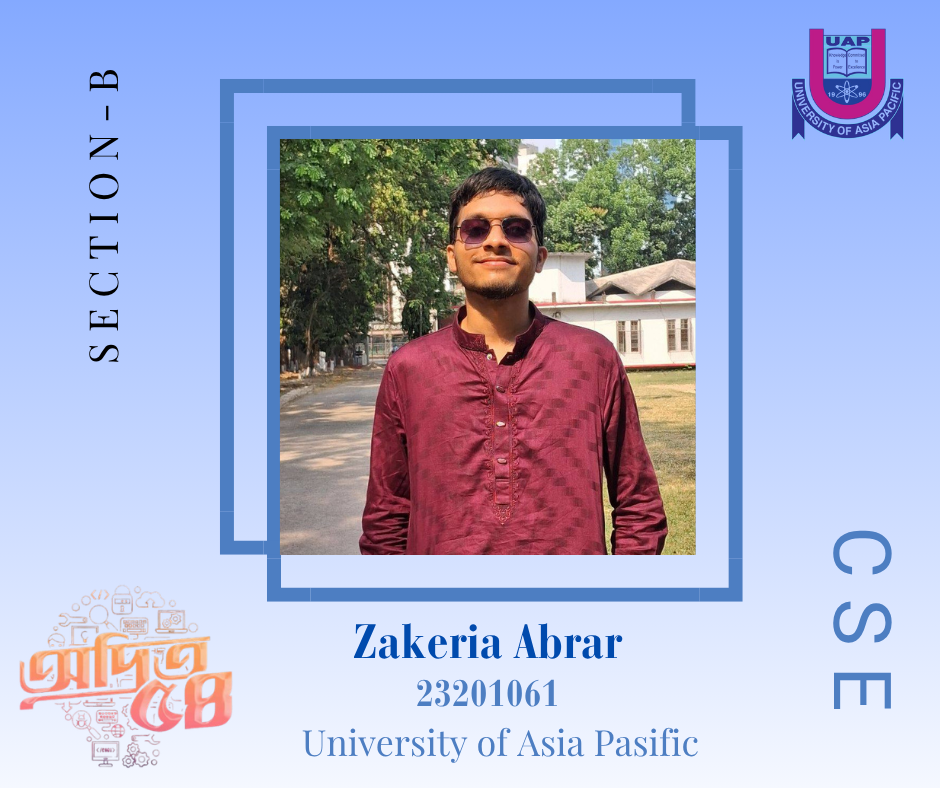
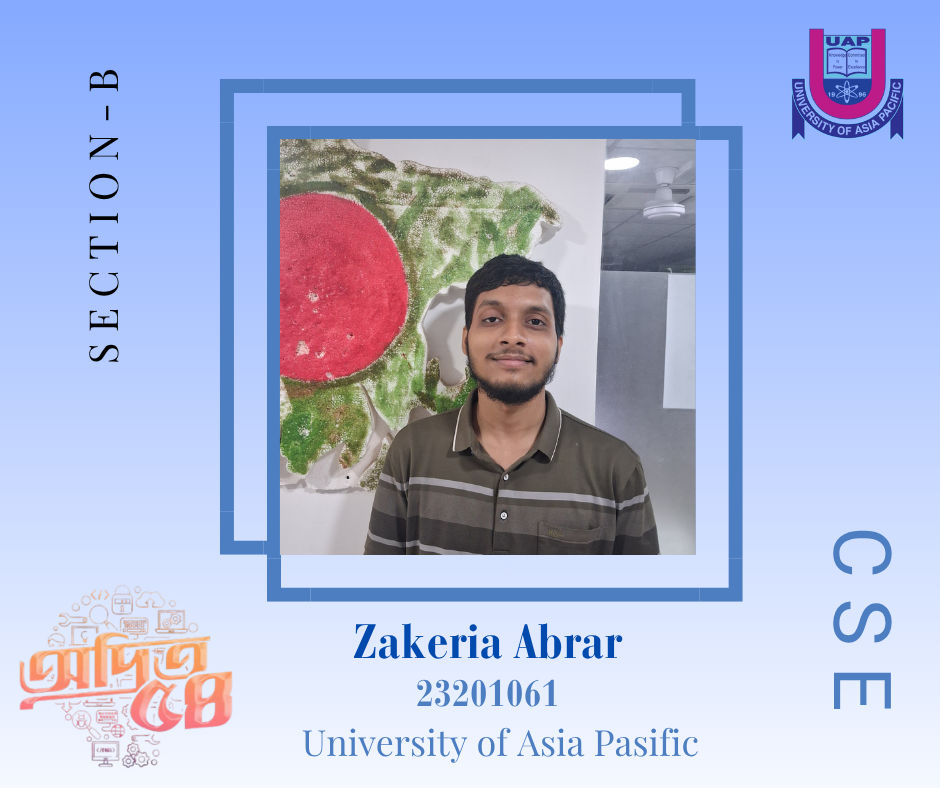
5th

Changed region(s): [[0.2777, 0.1523, 0.7404, 0.731]]

diff --git a/script.js b/script.js
@@ -72,7 +72,7 @@ setInterval(()=>{
 
 },2000);
 
-function openModal(img,title,date,location,description){
+function openModal(img,title,location,description,fblink){
 
     document.getElementById("imageModal").style.display="flex";
 
@@ -80,11 +80,11 @@ function openModal(img,title,date,location,description){
 
     document.getElementById("modalTitle").innerHTML=title;
 
-    document.getElementById("modalDate").innerHTML=date;
-
     document.getElementById("modalLocation").innerHTML=location;
 
     document.getElementById("modalDescription").innerHTML=description;
+
+    document.getElementById("modalFblink").href=fblink;
 
 }
 

diff --git a/index.html b/index.html
@@ -51,8 +51,7 @@
      onclick="openModal(
      'Photo/2.png',
      'Shirin Akter',
-     'Hometown- Noakhali',
-     'This photo was taken during the sunset at Cox\'s Bazar beach.')">
+     'Hometown- Noakhali')">
 
      <img src="Photo/2.png">
     <h3>Shirin </h3>
@@ -63,7 +62,7 @@
      'Photo/3.png',
      'Shirin Akter',
      'Hometown- Noakhali',
-     'This photo was taken during the sunset at Cox\'s Bazar beach.')">
+     'Mob-01609009180')">
 
      <img src="Photo/3.png">
     <h3>Rita</h3>
